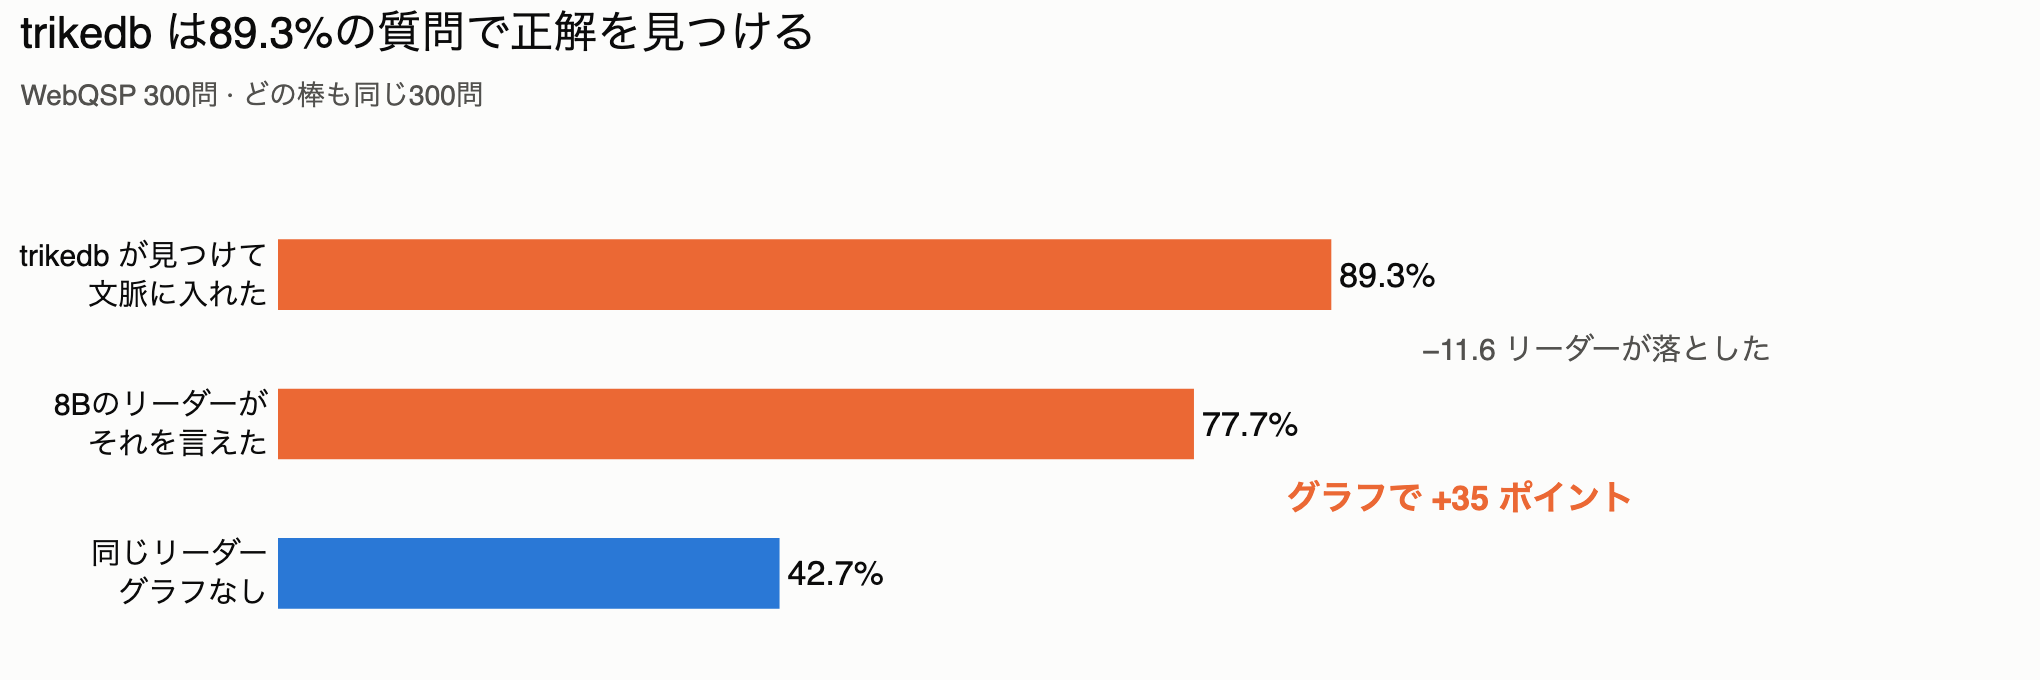
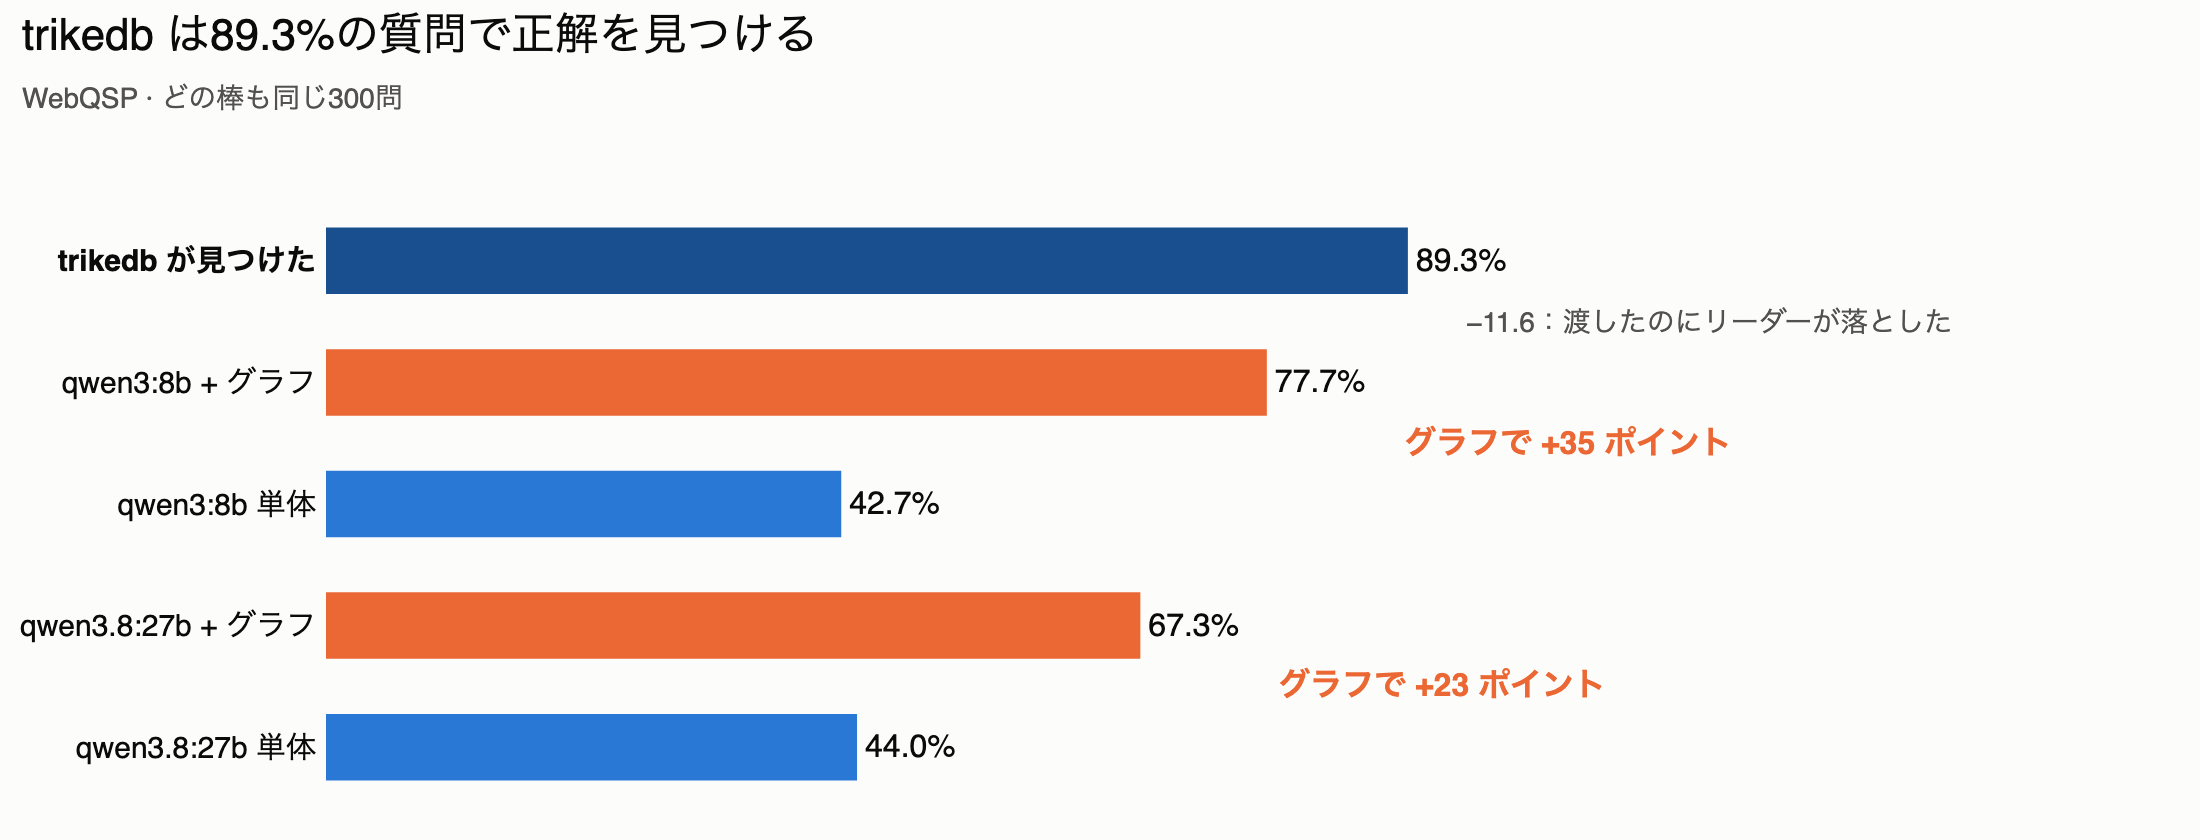
benchmarks: 精度の図を1枚に合体。89.3% とモデル比較を同時に読める
図を2つに分けるか、89.3% を落とすか、という二択だと思っていたが、5本に
すれば1枚で足りた。

  trikedb found it       89.3%   濃紺 — リーダーではなく別の段階
        −11.6 リーダーが落とした
  qwen3:8b + graph       77.7%   オレンジ — グラフあり
        +35 points from the graph
  qwen3:8b alone         42.7%   青 — グラフなし
  qwen3.8:27b + graph    67.3%
        +23 points from the graph
  qwen3.8:27b alone      44.0%

1枚で3つ読める:
  trikedb が 89.3% 届けていること
  グラフが両モデルで効くこと（+35 / +23）
  単体では8Bと27Bがほぼ同じで、パラメータ3.4倍が効いていないこと

色を3段階にした。trikedb の棒はリーダーのライバルではなく別の段階なので、
青/オレンジ（グラフなし/あり）とは別の濃紺にしてある。副題は「どの棒も
同じ300問」— 5本が同じ軸を共有できる唯一の理由なので。

diff --git a/benchmarks/accuracy_chart.py b/benchmarks/accuracy_chart.py
@@ -53,9 +53,11 @@ WITH_GRAPH = "#eb6834"
 #: axis at all.
 REACH = 89.3
 ROWS = [
-    ("ans_nograph_8b.jsonl", "baseline", False),
-    ("ans_hybrid_grounded_8b.jsonl", "reader", True),
-    (None, "reach", True),
+    ("ans_nograph_27b.jsonl", "alone_27b", "without"),
+    ("ans_hybrid_grounded_27b.jsonl", "graph_27b", "with"),
+    ("ans_nograph_8b.jsonl", "alone_8b", "without"),
+    ("ans_hybrid_grounded_8b.jsonl", "graph_8b", "with"),
+    (None, "reach", "trikedb"),
 ]
 
 #: A translated doc deserves a translated figure — a reader who chose 日本語
@@ -64,32 +66,36 @@ ROWS = [
 TEXT = {
     "en": {
         "title": "trikedb finds the answer for 89.3% of questions",
-        "sub": "300 WebQSP questions · the same 300 at every bar",
-        "reach": "trikedb found it<br>and put it in the context",
-        "reader": "the 8B reader<br>then said it",
-        "baseline": "the same reader<br>with no graph",
+        "sub": "WebQSP · every bar is the same 300 questions",
+        "reach": "<b>trikedb found it</b>",
+        "graph_8b": "qwen3:8b + graph", "alone_8b": "qwen3:8b alone",
+        "graph_27b": "qwen3.8:27b + graph", "alone_27b": "qwen3.8:27b alone",
         "delta": "{d:+.0f} points from the graph",
-        "loss": "−{d:.1f} the reader dropped",
+        "loss": "−{d:.1f}: the reader dropped what it was handed",
     },
     "jp": {
         "title": "trikedb は89.3%の質問で正解を見つける",
-        "sub": "WebQSP 300問 · どの棒も同じ300問",
-        "reach": "trikedb が見つけて<br>文脈に入れた",
-        "reader": "8Bのリーダーが<br>それを言えた",
-        "baseline": "同じリーダー<br>グラフなし",
+        "sub": "WebQSP · どの棒も同じ300問",
+        "reach": "<b>trikedb が見つけた</b>",
+        "graph_8b": "qwen3:8b + グラフ", "alone_8b": "qwen3:8b 単体",
+        "graph_27b": "qwen3.8:27b + グラフ", "alone_27b": "qwen3.8:27b 単体",
         "delta": "グラフで {d:+.0f} ポイント",
-        "loss": "−{d:.1f} リーダーが落とした",
+        "loss": "−{d:.1f}：渡したのにリーダーが落とした",
     },
     "zh": {
         "title": "trikedb 在 89.3% 的题目上找到了答案",
-        "sub": "300 道 WebQSP 题 · 每根柱子都是同一批 300 题",
-        "reach": "trikedb 找到了它<br>并放进上下文",
-        "reader": "8B 阅读模型<br>把它说出来了",
-        "baseline": "同一个阅读模型<br>没有图谱",
+        "sub": "WebQSP · 每根柱子都是同一批 300 题",
+        "reach": "<b>trikedb 找到了它</b>",
+        "graph_8b": "qwen3:8b + 图谱", "alone_8b": "qwen3:8b 单独",
+        "graph_27b": "qwen3.8:27b + 图谱", "alone_27b": "qwen3.8:27b 单独",
         "delta": "图谱带来 {d:+.0f} 个百分点",
-        "loss": "−{d:.1f} 被阅读模型丢掉",
+        "loss": "−{d:.1f}：递到手上却被阅读模型丢掉",
     },
 }
+
+#: trikedb's bar is a different *stage*, not a rival reader, so it gets its own
+#: darker treatment. Reader bars stay blue/orange for without/with a graph.
+TRIKEDB_BAR = "#1a4f8f"
 
 #: Two gaps, and they mean opposite things: what the graph added, and what the
 #: reader then lost. Both are differences a reader will not compute by eye.
@@ -99,33 +105,38 @@ def main(lang: str = "en") -> None:
     words = TEXT[lang]
     scored = {r["answers"]: r for r in json.loads((HERE / "accuracy_data.json").read_text())}
 
-    values = []
-    for name, key, graph in ROWS:
-        value = REACH if name is None else scored[name]["hits_at_1"]
-        values.append((words[key], value, graph))
+    COLOR = {"trikedb": TRIKEDB_BAR, "with": WITH_GRAPH, "without": WITHOUT_GRAPH}
+    values = [(words[key], REACH if name is None else scored[name]["hits_at_1"], kind)
+              for name, key, kind in ROWS]
 
     figure = go.Figure(go.Bar(
         y=[label for label, _, _ in values],
         x=[value for _, value, _ in values],
         orientation="h",
-        marker=dict(color=[WITH_GRAPH if g else WITHOUT_GRAPH for _, _, g in values],
+        marker=dict(color=[COLOR[kind] for _, _, kind in values],
                     line=dict(color=SURFACE, width=2)),
         text=[f"{value:.1f}%" for _, value, _ in values],
         textposition="outside", cliponaxis=False,
-        textfont=dict(size=17, color=INK),
+        textfont=dict(size=16, color=INK),
         hovertemplate="%{y}<br>%{x:.1f}% of 300 questions<extra></extra>",
     ))
 
-    reach, reader, baseline = REACH, values[1][1], values[0][1]
+    # Row indices, bottom-up as plotly draws them.
+    at = {key: i for i, (_, key, _) in enumerate(ROWS)}
+    for lower, upper, template, color, size in (
+        ("alone_8b", "graph_8b", words["delta"], WITH_GRAPH, 16),
+        ("alone_27b", "graph_27b", words["delta"], WITH_GRAPH, 16),
+    ):
+        gain = values[at[upper]][1] - values[at[lower]][1]
+        figure.add_annotation(
+            x=values[at[upper]][1], y=(at[lower] + at[upper]) / 2, xshift=150,
+            text=f"<b>{template.format(d=gain)}</b>", showarrow=False,
+            font=dict(size=size, color=color),
+        )
     figure.add_annotation(
-        x=reader, y=0.5, xshift=132, showarrow=False,
-        text=f"<b>{words['delta'].format(d=reader - baseline)}</b>",
-        font=dict(size=17, color=WITH_GRAPH),
-    )
-    figure.add_annotation(
-        x=reach, y=1.5, xshift=132, showarrow=False,
-        text=words["loss"].format(d=reach - reader),
-        font=dict(size=15, color=INK_MUTED),
+        x=REACH, y=(at["graph_8b"] + at["reach"]) / 2, xshift=150,
+        text=words["loss"].format(d=REACH - values[at["graph_8b"]][1]),
+        showarrow=False, font=dict(size=14, color=INK_MUTED),
     )
 
     figure.update_layout(
@@ -133,16 +144,16 @@ def main(lang: str = "en") -> None:
             text=(f"{words['title']}<br>"
                   f"<span style='font-size:14px;color:{INK_MUTED}'>"
                   f"{words['sub']}</span>"),
-            font=dict(size=22, color=INK), x=0.01, xanchor="left", y=0.93,
+            font=dict(size=22, color=INK), x=0.01, xanchor="left", y=0.94,
         ),
-        bargap=0.5,
+        bargap=0.42,
         paper_bgcolor=SURFACE, plot_bgcolor=SURFACE,
         font=dict(family="Helvetica, Arial, sans-serif", color=INK, size=15),
         xaxis=dict(range=[0, 100], showgrid=False, zeroline=False,
                    showticklabels=False),
         yaxis=dict(showgrid=False, zeroline=False, linecolor=SURFACE),
         showlegend=False,
-        margin=dict(l=10, r=290, t=100, b=16), width=1020, height=340,
+        margin=dict(l=10, r=330, t=100, b=16), width=1100, height=420,
     )
     out = HERE / ("accuracy.png" if lang == "en" else f"accuracy_{lang}.png")
     figure.write_image(out, scale=2)
